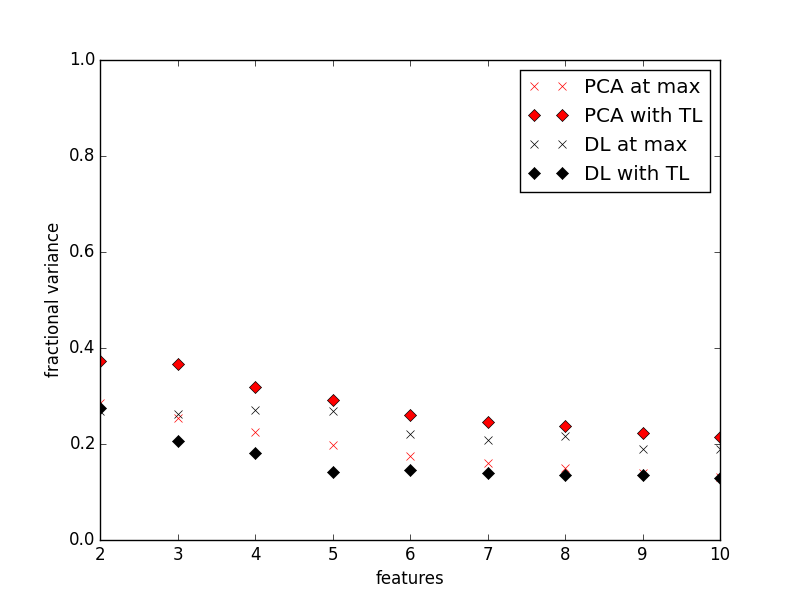
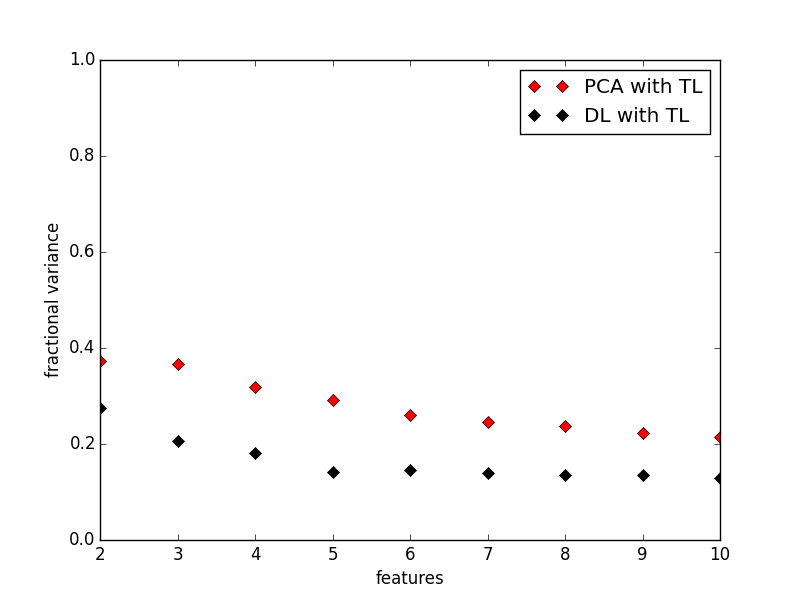
Removed x from plot.

Changed region(s): [[0.625, 0.12, 0.9062, 0.33], [0.6562, 0.12, 0.7188, 0.15], [0.2188, 0.69, 0.25, 0.72]]

diff --git a/python/transfer_learning_test/plot_variances.py b/python/transfer_learning_test/plot_variances.py
@@ -5,9 +5,9 @@ from matplotlib.pyplot import plot, savefig, xlabel, ylabel, scatter, axis, xlim
 
 data_to_plot = loadtxt('./residuals.dat').T
 figure()
-plot(data_to_plot[0], data_to_plot[1],'xr', label='PCA at max')
+#plot(data_to_plot[0], data_to_plot[1],'xr', label='PCA at max')
 plot(data_to_plot[0], data_to_plot[2],'Dr', label='PCA with TL')
-plot(data_to_plot[0], data_to_plot[3],'xk', label='DL at max')
+#plot(data_to_plot[0], data_to_plot[3],'xk', label='DL at max')
 plot(data_to_plot[0], data_to_plot[4],'Dk', label='DL with TL')
 ylabel('fractional variance')
 xlabel('features')
